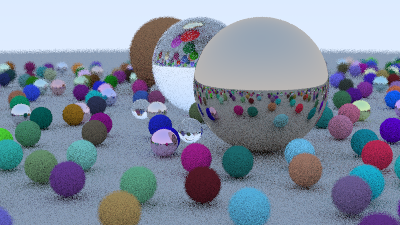
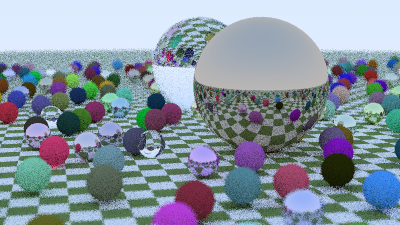
add solid color and checker texture

diff --git a/src/material.rs b/src/material.rs
@@ -1,6 +1,13 @@
+use std::rc::Rc;
+
 use rand::Rng;
 
-use crate::{hit_info::HitInfo, ray::Ray, vec3::Vec3};
+use crate::{
+    hit_info::HitInfo,
+    ray::Ray,
+    texture::{self, SolidColorTexture, Texture},
+    vec3::Vec3,
+};
 
 // TODO figure out if there's a way to make this abstrat and not have it suck
 // pub trait Material {
@@ -9,20 +16,20 @@ use crate::{hit_info::HitInfo, ray::Ray, vec3::Vec3};
 //     fn scatter(&self, ray: &Ray, hit_info: &HitInfo) -> (bool, Vec3, Ray);
 // }
 
-#[derive(Debug, Clone, Copy, Default)]
+#[derive(Clone)]
 pub struct DiffuseMaterial {
-    albedo: Vec3,
+    texture: Rc<dyn Texture>,
 }
 
 impl DiffuseMaterial {
-    pub fn new(r: f64, g: f64, b: f64) -> DiffuseMaterial {
-        DiffuseMaterial {
-            albedo: Vec3::new(r, g, b),
-        }
+    pub fn new(texture: Rc<dyn Texture>) -> DiffuseMaterial {
+        DiffuseMaterial { texture }
     }
 
     pub fn from_rgb(rgb: Vec3) -> DiffuseMaterial {
-        DiffuseMaterial { albedo: rgb }
+        DiffuseMaterial {
+            texture: Rc::new(SolidColorTexture::from_vec(rgb)),
+        }
     }
 
     pub fn scatter(&self, hit_info: &HitInfo) -> (bool, Vec3, Ray) {
@@ -34,7 +41,7 @@ impl DiffuseMaterial {
         let eps = 1e-3;
         (
             true,
-            self.albedo,
+            self.texture.value(hit_info.u, hit_info.v, &hit_info.point),
             Ray::new(hit_info.point + hit_info.normal * eps, scatter_dir),
         )
     }
@@ -111,7 +118,7 @@ impl RefractiveMaterial {
     }
 }
 
-#[derive(Debug, Clone, Copy)]
+#[derive(Clone)]
 pub enum Material {
     DIFFUSE(DiffuseMaterial),
     SPECULAR(SpecularMaterial),
@@ -120,7 +127,7 @@ pub enum Material {
 
 impl Default for Material {
     fn default() -> Self {
-        Self::DIFFUSE(DiffuseMaterial {
+        Self::SPECULAR(SpecularMaterial {
             albedo: Vec3::zeroes(),
         })
     }

diff --git a/src/texture.rs b/src/texture.rs
@@ -1,0 +1,66 @@
+use std::rc::Rc;
+
+use crate::vec3::Vec3;
+
+pub trait Texture {
+    fn value(&self, u: f64, v: f64, point: &Vec3) -> Vec3;
+}
+
+pub struct SolidColorTexture {
+    albedo: Vec3,
+}
+
+impl SolidColorTexture {
+    pub fn new(r: f64, g: f64, b: f64) -> SolidColorTexture {
+        SolidColorTexture {
+            albedo: Vec3::new(r, g, b),
+        }
+    }
+
+    pub fn from_vec(albedo: Vec3) -> SolidColorTexture {
+        SolidColorTexture { albedo }
+    }
+}
+
+impl Texture for SolidColorTexture {
+    fn value(&self, _u: f64, _v: f64, _point: &Vec3) -> Vec3 {
+        self.albedo
+    }
+}
+
+pub struct CheckerTexture {
+    inv_scale: f64,
+    tex1: Rc<dyn Texture>,
+    tex2: Rc<dyn Texture>,
+}
+
+impl CheckerTexture {
+    pub fn new(scale: f64, tex1: Rc<dyn Texture>, tex2: Rc<dyn Texture>) -> CheckerTexture {
+        CheckerTexture {
+            inv_scale: scale.recip(),
+            tex1,
+            tex2,
+        }
+    }
+
+    pub fn from_colors(scale: f64, color1: Vec3, color2: Vec3) -> CheckerTexture {
+        CheckerTexture {
+            inv_scale: scale.recip(),
+            tex1: Rc::new(SolidColorTexture::from_vec(color1)),
+            tex2: Rc::new(SolidColorTexture::from_vec(color2)),
+        }
+    }
+}
+
+impl Texture for CheckerTexture {
+    fn value(&self, u: f64, v: f64, point: &Vec3) -> Vec3 {
+        let x = (point.x() * self.inv_scale).floor() as i32;
+        let y = (point.y() * self.inv_scale).floor() as i32;
+        let z = (point.z() * self.inv_scale).floor() as i32;
+        if (x + y + z) % 2 == 0 {
+            self.tex1.value(u, v, point)
+        } else {
+            self.tex2.value(u, v, point)
+        }
+    }
+}

diff --git a/src/main.rs b/src/main.rs
@@ -1,7 +1,10 @@
+use std::rc::Rc;
+
 use path_tracer::{
     camera::Camera,
     material::{DiffuseMaterial, Material, RefractiveMaterial, SpecularMaterial},
     sphere::Sphere,
+    texture::{CheckerTexture, SolidColorTexture},
     vec3::Vec3,
     World,
 };
@@ -10,7 +13,11 @@ use rand::Rng;
 fn main() {
     let mut world = World::new();
 
-    let mat_ground = Material::DIFFUSE(DiffuseMaterial::new(0.5, 0.5, 0.5));
+    let checker_tex =
+        CheckerTexture::from_colors(0.32, Vec3::new(0.2, 0.3, 0.1), Vec3::new(0.9, 0.9, 0.9));
+
+    let mat_ground = Material::DIFFUSE(DiffuseMaterial::new(Rc::new(checker_tex)));
+
     world.add(Box::new(Sphere::new(
         1000.0,
         Vec3::new(0.0, -1000.0, 0.0),
@@ -20,8 +27,8 @@ fn main() {
     let mat1 = Material::REFRACTIVE(RefractiveMaterial::new(1.5));
     world.add(Box::new(Sphere::new(1.0, Vec3::new(0.0, 1.0, 0.0), mat1)));
 
-    let mat2 = Material::DIFFUSE(DiffuseMaterial::new(0.4, 0.2, 0.1));
-    world.add(Box::new(Sphere::new(1.0, Vec3::new(-4.0, 1.0, 0.0), mat2)));
+    // let mat2 = Material::DIFFUSE(DiffuseMaterial::new(0.4, 0.2, 0.1));
+    // world.add(Box::new(Sphere::new(1.0, Vec3::new(-4.0, 1.0, 0.0), mat2)));
 
     let mat3 = Material::SPECULAR(SpecularMaterial::new(0.7, 0.6, 0.5));
     world.add(Box::new(Sphere::new(1.0, Vec3::new(4.0, 1.0, 0.0), mat3)));

diff --git a/src/camera.rs b/src/camera.rs
@@ -157,7 +157,7 @@ impl Camera {
         match world.intersects(ray, eps, f64::INFINITY) {
             Some(info) => {
                 let (should_bounce, attenuation, scatter_ray) = match info.mat {
-                    crate::material::Material::DIFFUSE(material) => material.scatter(&info),
+                    crate::material::Material::DIFFUSE(ref material) => material.scatter(&info),
                     crate::material::Material::SPECULAR(material) => material.scatter(ray, &info),
                     crate::material::Material::REFRACTIVE(material) => material.scatter(ray, &info),
                 };

diff --git a/src/sphere.rs b/src/sphere.rs
@@ -2,7 +2,7 @@ use core::f64;
 
 use crate::{hit_info::HitInfo, material::Material, ray::Ray, vec3::Vec3, Hittable};
 
-#[derive(Debug, Clone, Copy)]
+#[derive(Clone)]
 pub struct Sphere {
     radius: f64,
     center: Vec3,
@@ -56,7 +56,7 @@ impl Hittable for Sphere {
         };
         hit_info.point = ray.at(intersect);
         hit_info.dist = intersect;
-        hit_info.mat = self.material;
+        hit_info.mat = self.material.clone();
 
         let normal = (hit_info.point - self.center).normalized();
         hit_info.set_face_normal(ray, normal);

diff --git a/src/hit_info.rs b/src/hit_info.rs
@@ -1,12 +1,14 @@
 use crate::{material::Material, ray::Ray, vec3::Vec3};
 
-#[derive(Debug, Clone, Copy)]
+#[derive(Clone)]
 pub struct HitInfo {
     pub point: Vec3,
     pub normal: Vec3,
     pub dist: f64,
     pub front_face: bool,
     pub mat: Material,
+    pub u: f64,
+    pub v: f64,
 }
 
 impl HitInfo {
@@ -24,6 +26,8 @@ impl Default for HitInfo {
             dist: f64::INFINITY,
             front_face: false,
             mat: Default::default(),
+            u: Default::default(),
+            v: Default::default(),
         }
     }
 }

diff --git a/src/lib.rs b/src/lib.rs
@@ -9,6 +9,7 @@ pub mod ray;
 pub mod sphere;
 pub mod utils;
 pub mod vec3;
+pub mod texture;
 
 pub trait Hittable {
     fn intersects(&self, ray: &Ray, t_min: f64, t_max: f64) -> Option<HitInfo>;
